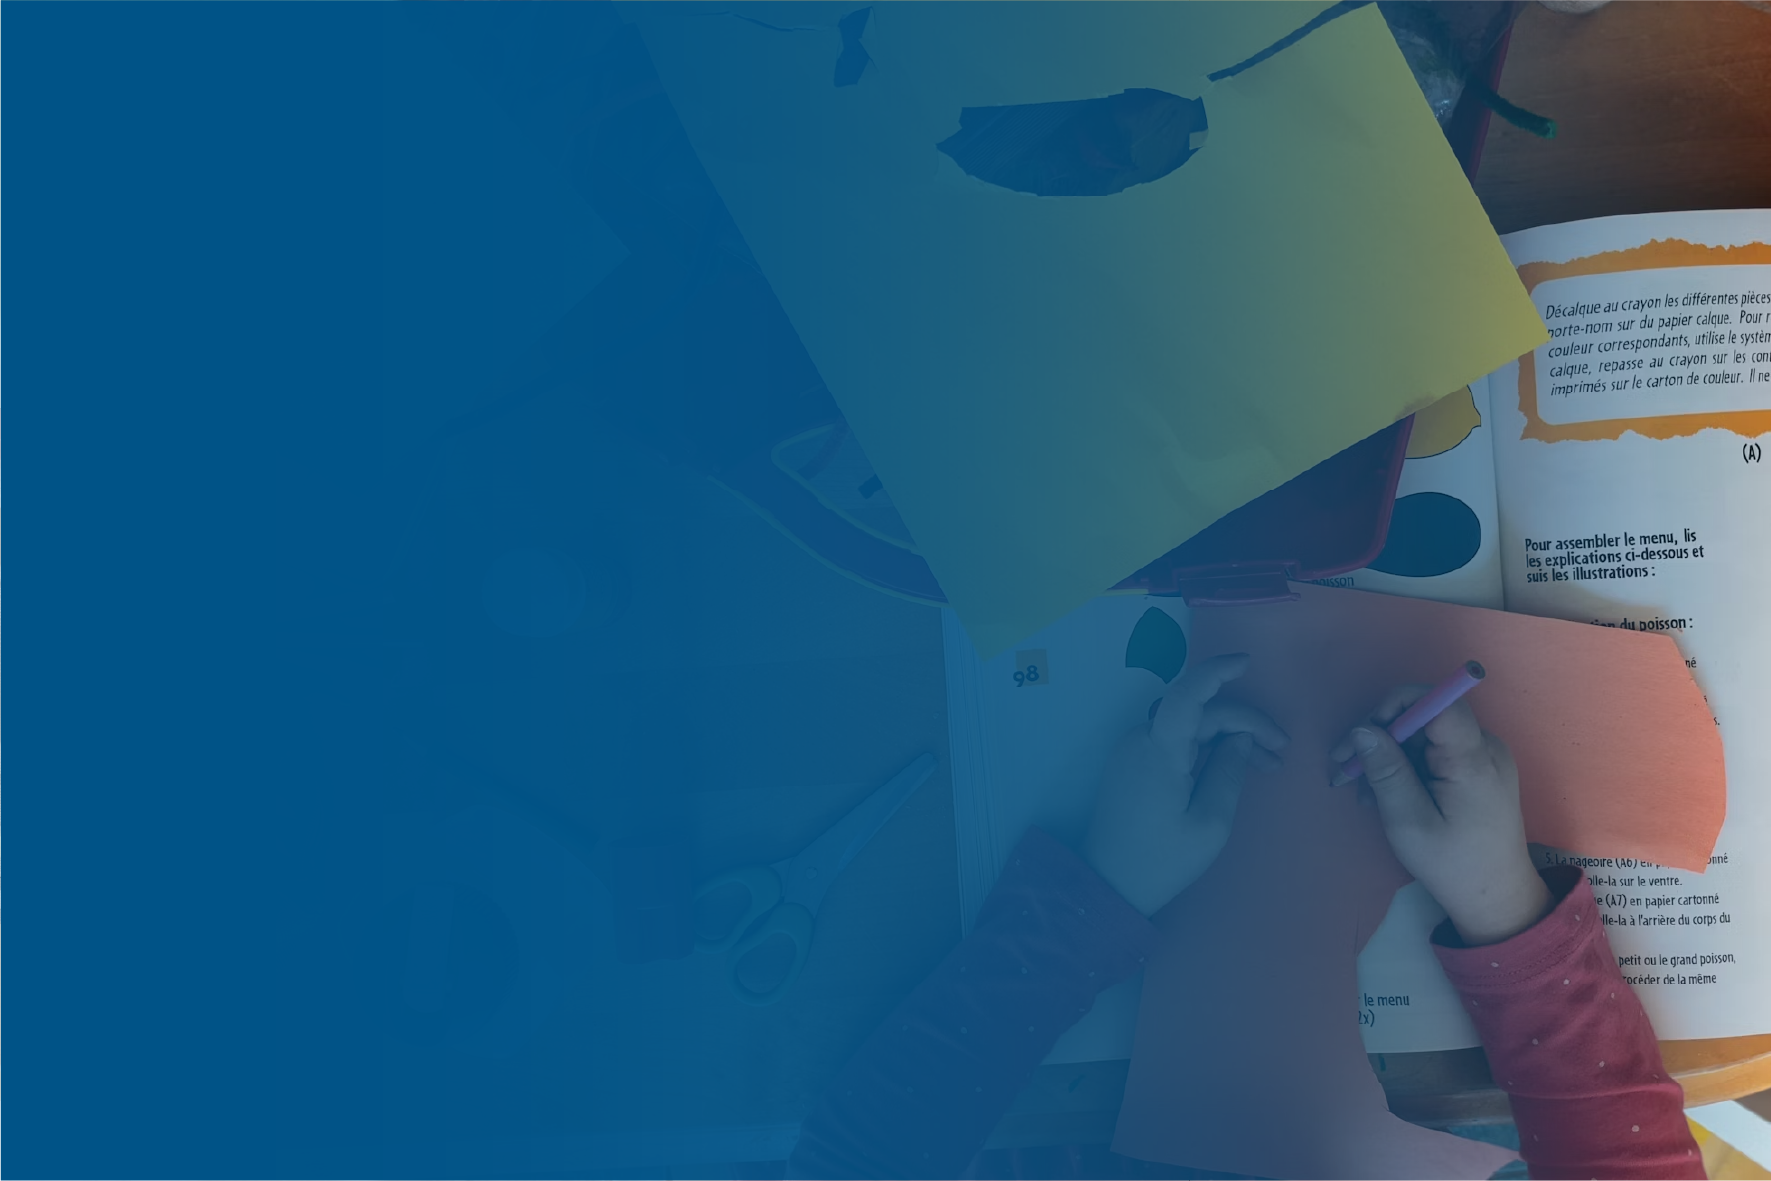
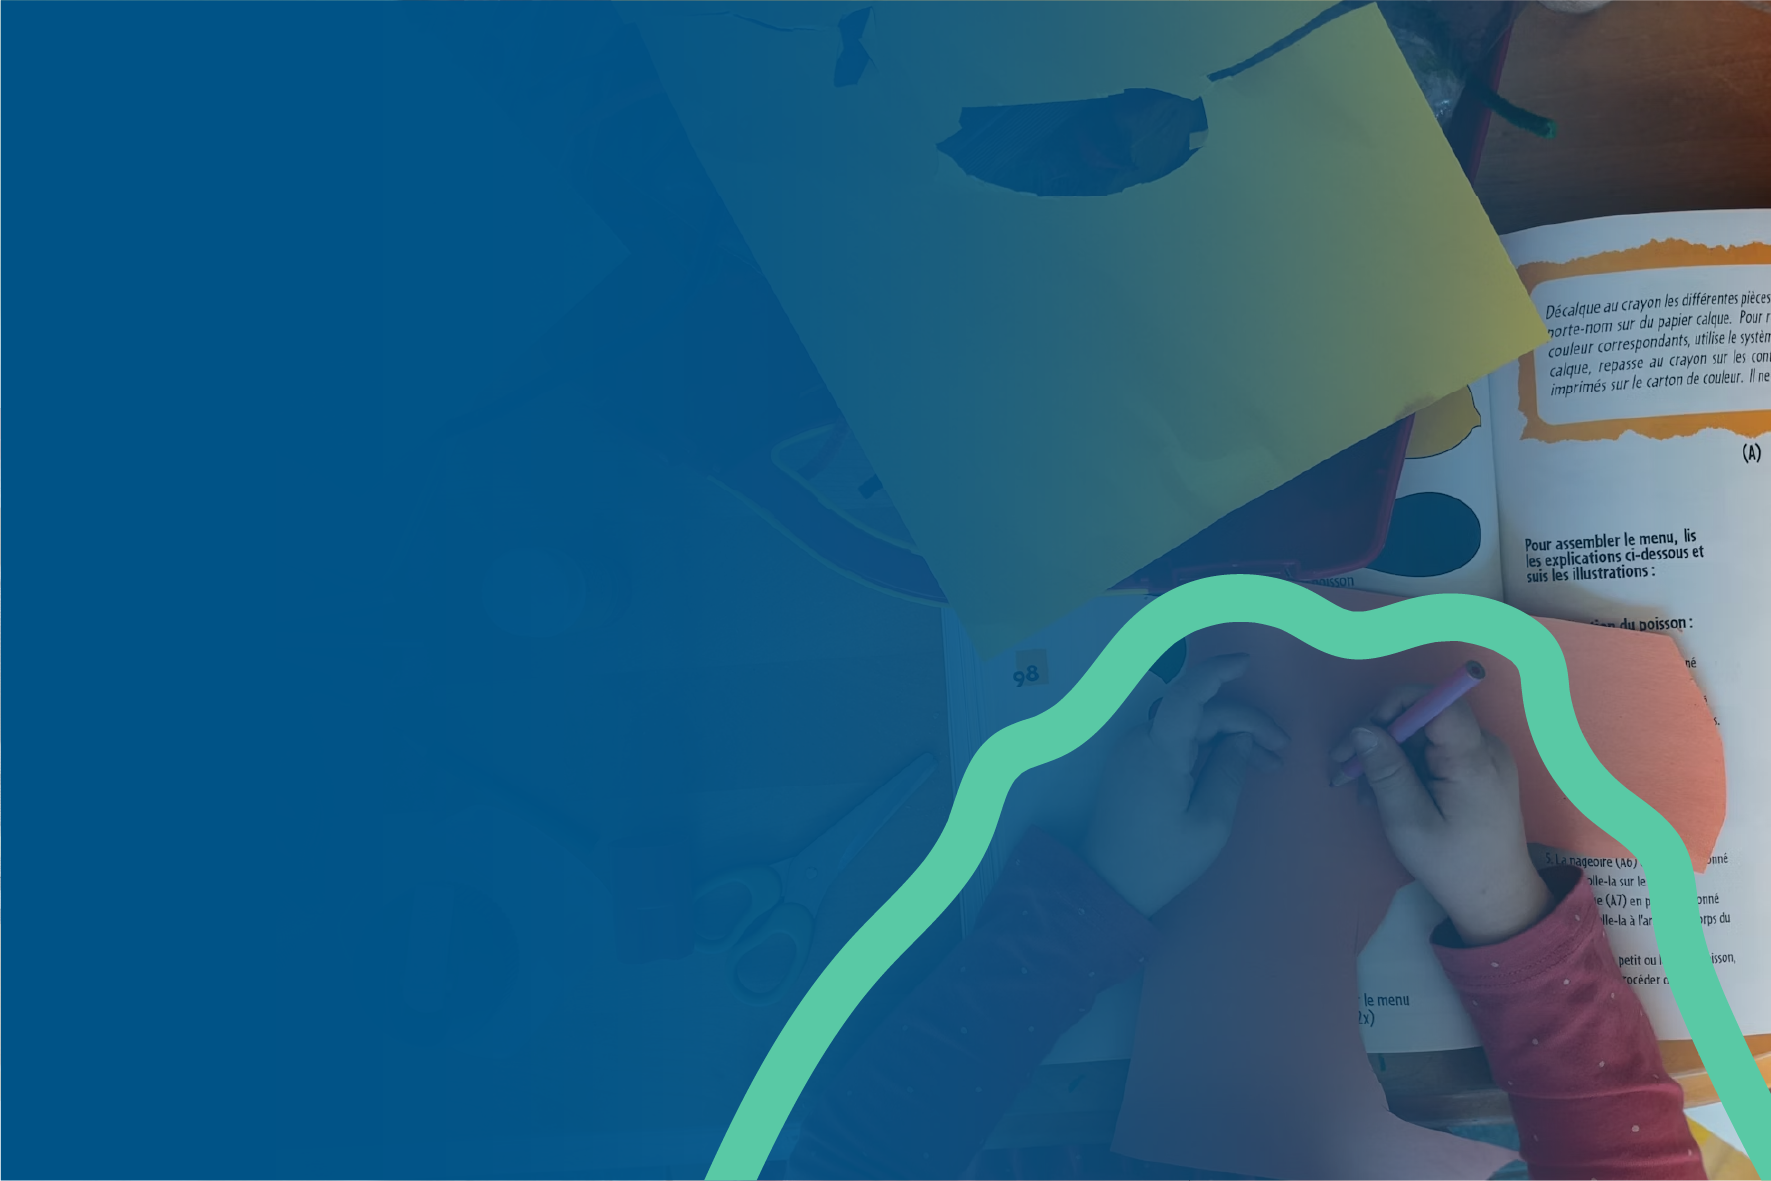
ok

Changed region(s): [[0.4037, 0.4877, 1.0, 1.0]]

diff --git a/index.html b/index.html
@@ -1,3 +1,3 @@
-<!doctype html><html lang="fr"><head><meta charset="utf-8"><meta http-equiv="X-UA-Compatible" content="IE=edge"><meta name="viewport" content="width=device-width,initial-scale=1"><meta name="robots" content="noindex, nofollow"><link rel="icon" href="/Centre-Comprendre-et-parler/img/logonew.2600a878.png"><script src="https://unpkg.com/aos@2.3.1/dist/aos.js"></script><link href="https://unpkg.com/aos@2.3.1/dist/aos.css" rel="stylesheet"><link rel="stylesheet" href="https://use.typekit.net/msf6xgq.css"><link rel="stylesheet" href="https://cdn.jsdelivr.net/npm/swiper@11/swiper-bundle.min.css"/><script src="https://cdn.jsdelivr.net/npm/swiper@11/swiper-bundle.min.js"></script><link rel="preconnect" href="https://fonts.googleapis.com"><link rel="preconnect" href="https://fonts.gstatic.com" crossorigin><link rel="preconnect" href="https://fonts.googleapis.com"><link rel="preconnect" href="https://fonts.gstatic.com" crossorigin><link href="https://fonts.googleapis.com/css2?family=Nerko+One&family=Rubik:ital,wght@0,300..900;1,300..900&family=Varela+Round&display=swap" rel="stylesheet"><title>comprendreetparler</title><script defer="defer" src="/Centre-Comprendre-et-parler/js/chunk-vendors.692ace96.js"></script><script defer="defer" src="/Centre-Comprendre-et-parler/js/app.2c20ea0c.js"></script><link href="/Centre-Comprendre-et-parler/css/app.6c4dde84.css" rel="stylesheet"></head><body><noscript><strong>We're sorry but comprendreetparler doesn't work properly without JavaScript enabled. Please enable it to continue.</strong></noscript><div id="app"></div><script>document.addEventListener('DOMContentLoaded', function () {
+<!doctype html><html lang="fr"><head><meta charset="utf-8"><meta http-equiv="X-UA-Compatible" content="IE=edge"><meta name="viewport" content="width=device-width,initial-scale=1"><meta name="robots" content="noindex, nofollow"><link rel="icon" href="/Centre-Comprendre-et-parler/img/logonew.2600a878.png"><script src="https://unpkg.com/aos@2.3.1/dist/aos.js"></script><link href="https://unpkg.com/aos@2.3.1/dist/aos.css" rel="stylesheet"><link rel="stylesheet" href="https://use.typekit.net/msf6xgq.css"><link rel="stylesheet" href="https://cdn.jsdelivr.net/npm/swiper@11/swiper-bundle.min.css"/><script src="https://cdn.jsdelivr.net/npm/swiper@11/swiper-bundle.min.js"></script><link rel="preconnect" href="https://fonts.googleapis.com"><link rel="preconnect" href="https://fonts.gstatic.com" crossorigin><link rel="preconnect" href="https://fonts.googleapis.com"><link rel="preconnect" href="https://fonts.gstatic.com" crossorigin><link href="https://fonts.googleapis.com/css2?family=Nerko+One&family=Rubik:ital,wght@0,300..900;1,300..900&family=Varela+Round&display=swap" rel="stylesheet"><title>comprendreetparler</title></head><body><div id="app"></div><script>document.addEventListener('DOMContentLoaded', function () {
           AOS.init();
       });</script></body></html>

diff --git a/src/css/pages/Home/bloc_flex.css b/src/css/pages/Home/bloc_flex.css
@@ -7,7 +7,10 @@
 
 .blocflex-container-container{
     margin: 6rem 0;
-    background-color: #005387;
+    background: url('../../../../images/blocflexbg.svg'), #005387;
+    background-size: cover;
+    background-position: center;
+    background-repeat: no-repeat;
 }
 
 .bloc-flex-container h2{
@@ -103,13 +106,20 @@
     }
 }
 
-@media screen and (max-width: 768px){
+@media screen and (max-width: 769px){
     .grid-bloc-flex{
         grid-template-columns: 1fr;
     }
 
     .bloc-flex-container h2{
         font-size: 2rem;
+    }
+
+    .blocflex-container-container{
+        background: url('../../../../images/blocflexbgmobile.svg'), #005387;
+        background-size: cover;
+    background-position: center;
+    background-repeat: no-repeat;
     }
 }
 

diff --git a/src/js/components/pages/Home/Patient.vue b/src/js/components/pages/Home/Patient.vue
@@ -1,7 +1,7 @@
 <template>
     <div class="image-text-row patient-section" data-aos="fade-up" data-aos-duration="1000" data-aos-anchor-placement="center-bottom">
         <div class="image-wrapper">
-            <img src="../../../../../images/patient.webp" alt="Patient enfant">
+            <img src="../../../../../images/patient2.webp" alt="Patient enfant">
         </div>
         <div class="content-wrapper">
             <div class="content-wrapper-content patient-content"  data-aos="fade-up" data-aos-duration="1000" data-aos-anchor-placement="center-bottom">

diff --git a/src/css/pages/Home/News.css b/src/css/pages/Home/News.css
@@ -71,7 +71,7 @@
 }
 
 .news-date{
-    margin-top: 2rem;
+     margin-top: 2rem;
     margin-right: 2rem;
     margin-left: 2rem;
     padding: .3rem .6rem;
